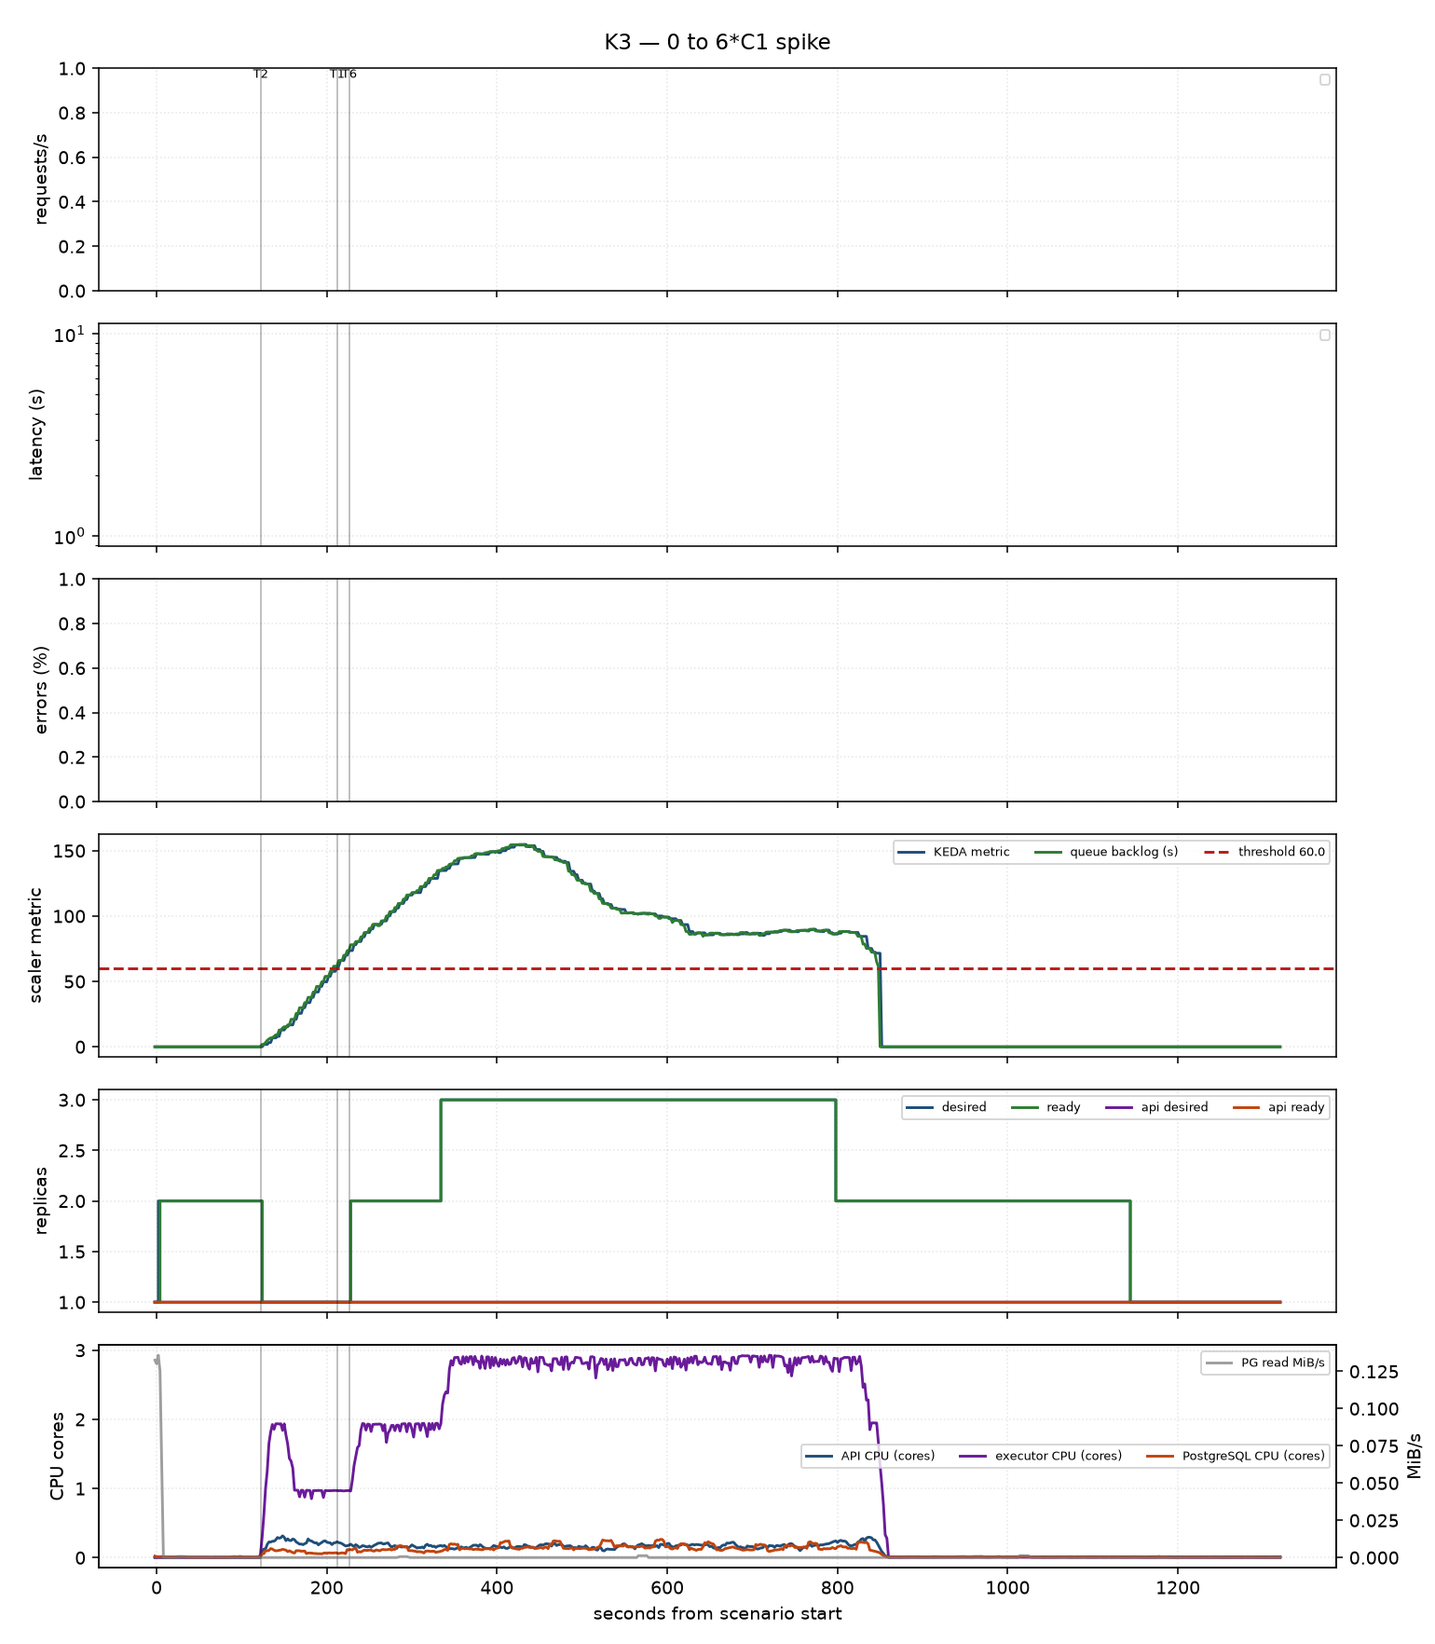
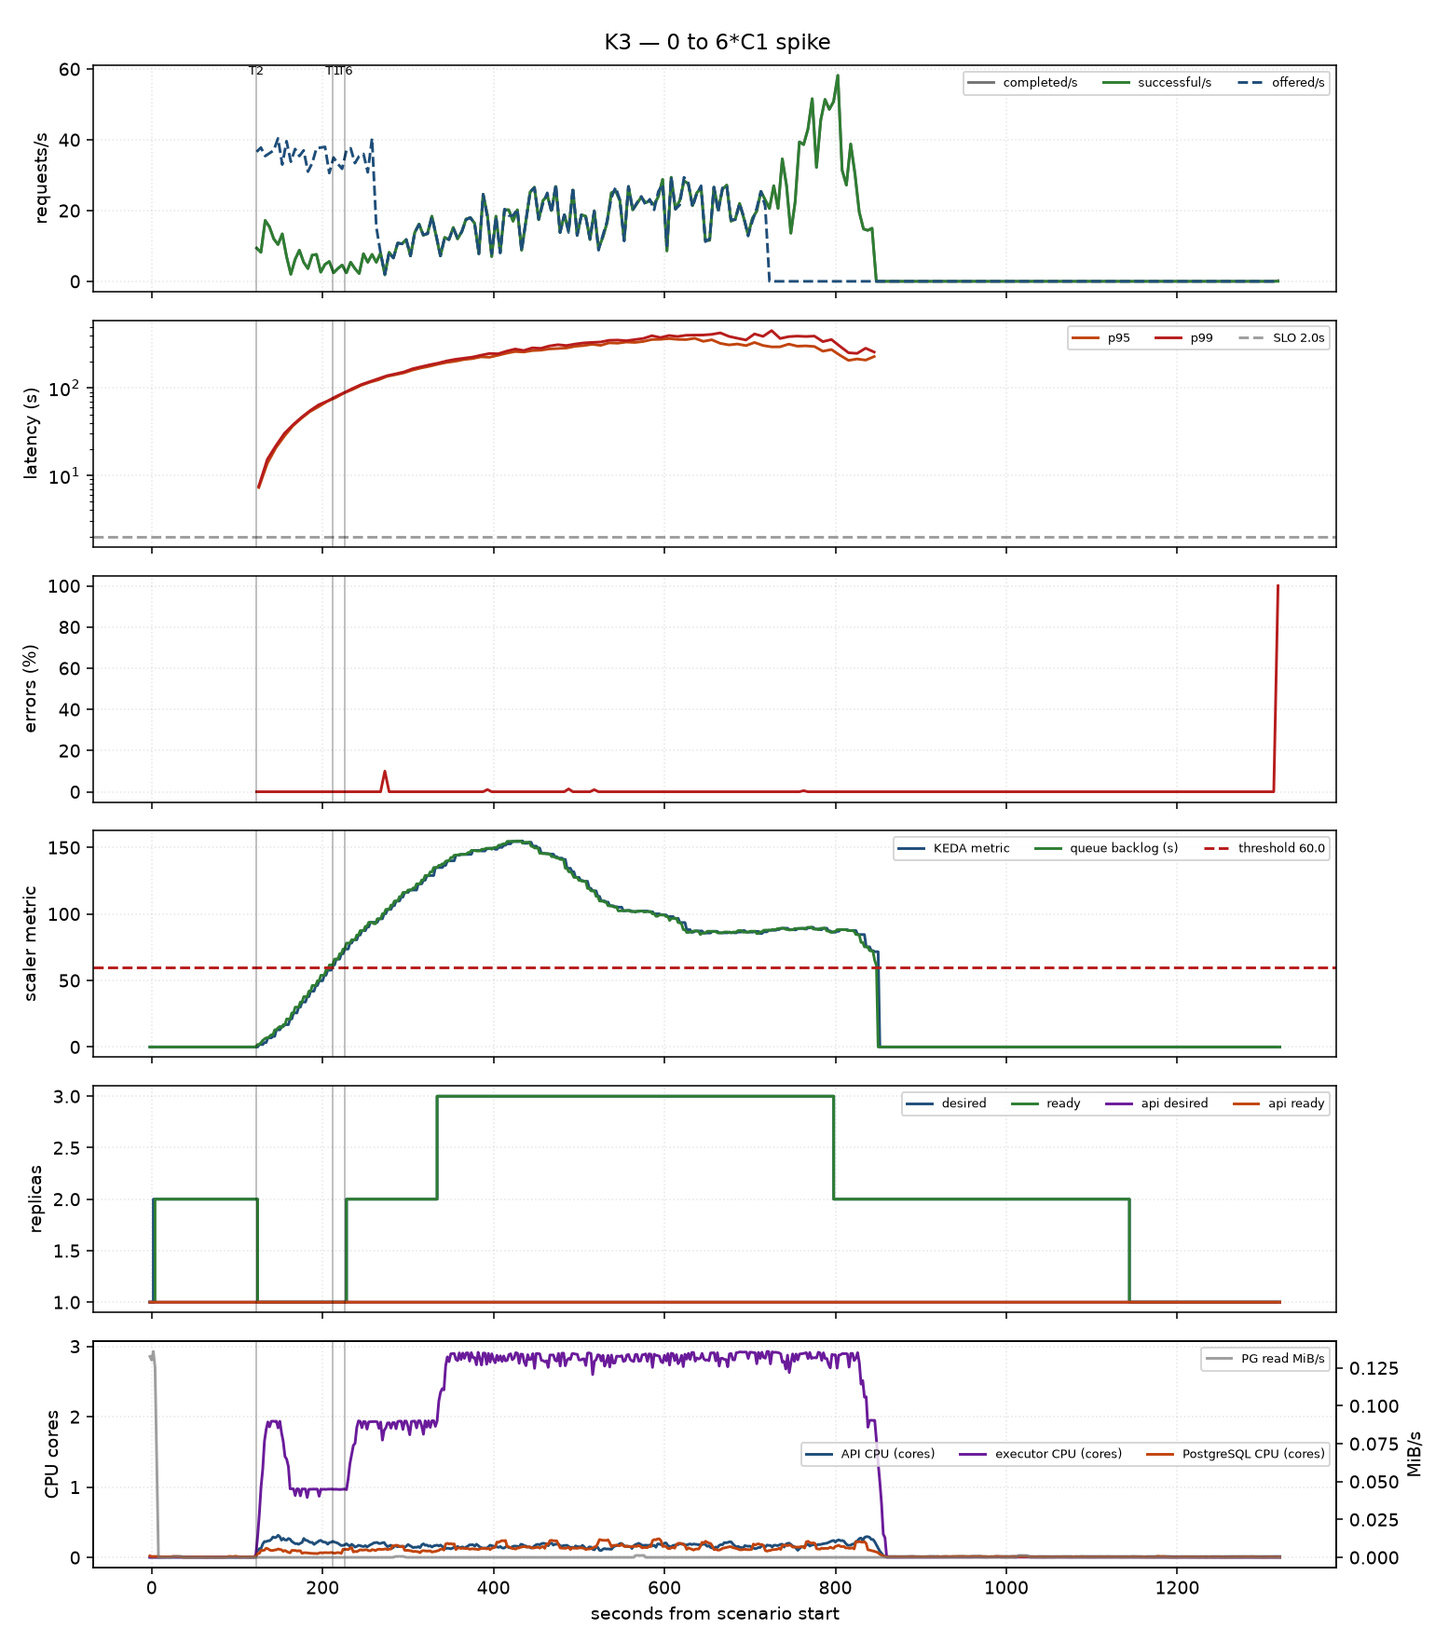
fix: draw the request panels, and classify the resource that was pinned
Two defects, found by finally looking at an autoscaling dashboard once the path
that blanked half of it was fixed.

The series path was corrected to `metrics/keda-K3.parquet` in an earlier commit;
the samples path three lines below still said `samples/K3.parquet`. So
offered-against-served, latency and error rate drew nothing on all seven
dashboards of every KEDA run — axed, titled, captioned and empty. An empty panel
under a heading reads as "measured, and flat", so a panel with no data now says
so on its face instead of leaving matplotlib's "no artists with labels" warning
as the only report of it.

With the panels drawn, executor CPU was visibly at 2.9 cores across three pods:
0.95 to 0.97 of a core each, against a two-core cgroup, with zero CFS
throttling. That is the chart's own GIL argument, which its values file states
outright — "one executor runs one query at a time" — and no rule was looking at
it. The classifier checked API CPU against the API's ceiling and PostgreSQL
against PostgreSQL's, and never the executor. So the one resource genuinely at
its limit in this family was invisible; the sustained-overload scenario came out
UNKNOWN; and I had described these runs as having nothing busy. The API and the
database were idle. The executors were full.

EXECUTOR_CPU_BOUND is now a class, its ceiling one core a pod times the pods
ready. It fires on four of the seven scenarios, and where it appears beside
[…]

diff --git a/benchmarks/tap-performance/tapbench/analyze/bottleneck.py b/benchmarks/tap-performance/tapbench/analyze/bottleneck.py
@@ -22,6 +22,7 @@ import numpy as np
 
 CLASSES = (
     "TAP_CPU_BOUND",
+    "EXECUTOR_CPU_BOUND",
     "DATABASE_CPU_BOUND",
     "DATABASE_IO_BOUND",
     "CONNECTION_POOL_BOUND",
@@ -49,14 +50,14 @@ def _fraction_above(values: np.ndarray, threshold: float) -> float:
     return float((values > threshold).mean()) if values.size else 0.0
 
 
-def fleet_replicas(metrics_rows: list[dict]) -> float:
-    """Peak API replicas ready during the window, never below one.
+def fleet_replicas(metrics_rows: list[dict], metric: str = "api_replicas_ready") -> float:
+    """Peak replicas ready during the window, never below one.
 
     The multiplier for every per-pod ceiling, taken from the run rather than
     from the configuration: under an autoscaler the configured count is not
     what served, and the measured one is right in both cases.
     """
-    ready = _series(metrics_rows, "api_replicas_ready")
+    ready = _series(metrics_rows, metric)
     finite = ready[np.isfinite(ready)] if ready.size else ready
     return max(float(finite.max()), 1.0) if finite.size else 1.0
 
@@ -76,6 +77,8 @@ def classify(
     api_cpu = _series(metrics_rows, "tap_api_cpu_cores")
     pg_cpu = _series(metrics_rows, "postgres_cpu_cores")
     api_throttle = _series(metrics_rows, "tap_api_throttled_seconds")
+    exec_cpu = _series(metrics_rows, "tap_executor_cpu_cores")
+    exec_throttle = _series(metrics_rows, "tap_executor_throttled_seconds")
     pg_throttle = _series(metrics_rows, "postgres_throttled_seconds")
     pool_in_use = _series(metrics_rows, "tap_db_connections_in_use")
     pool_wait = _series(metrics_rows, "tap_pool_wait_p95")
@@ -95,6 +98,8 @@ def classify(
     # judged against the fleet that actually served.
     serving = fleet_replicas(metrics_rows)
     api_limit = limits.get("tap_api_cpu_limit_cores", 2.0) * serving
+    executors = fleet_replicas(metrics_rows, "executor_replicas_ready")
+    exec_limit = limits.get("tap_executor_cpu_limit_cores", 1.0) * executors
     pg_limit = limits.get("postgres_cpu_limit_cores", 4.0)
     pool_limit = limits.get("db_pool_max_total", 8) * limits.get("tap_api_workers", 1) * serving
 
@@ -134,6 +139,36 @@ def classify(
                     "GIL, so one worker cannot exceed one core whatever the cgroup "
                     "allows. Relieved by more processes (tapApi.workers) or more "
                     "pods, never by a bigger limit on one worker.",
+                )
+            )
+
+    # -- executor CPU -------------------------------------------------------
+    # Missing until the autoscaling family was read, and it was the resource
+    # actually at its ceiling there: each executor pod sat at 0.96 of a core
+    # with a two-core cgroup and no throttling, while the run was described as
+    # having nothing busy. The API and the database were idle; the executors
+    # were pinned.
+    if exec_cpu.size:
+        hot = _fraction_above(exec_cpu, 0.90 * exec_limit)
+        throttled = float(exec_throttle.mean()) if exec_throttle.size else 0.0
+        if hot > 0.25 or throttled > 0.05:
+            verdicts.append(
+                Verdict(
+                    "EXECUTOR_CPU_BOUND",
+                    max(hot, min(1.0, throttled)),
+                    {
+                        "fraction_of_window_above_90pct_limit": hot,
+                        "mean_throttled_seconds_per_second": throttled,
+                        "peak_cores": float(exec_cpu.max()),
+                        "limit_cores": exec_limit,
+                        "executor_replicas_serving": executors,
+                    },
+                    "The executors are at their ceiling. One executor runs one query "
+                    "at a time, so a pod cannot exceed one core whatever its cgroup "
+                    "allows, and the only relief is more pods. Alongside "
+                    "KEDA_SCALE_LAG this is the whole story of an autoscaling "
+                    "shortfall: the pods that existed were full and more were never "
+                    "asked for.",
                 )
             )
 

diff --git a/benchmarks/tap-performance/tapbench/analyze/report.py b/benchmarks/tap-performance/tapbench/analyze/report.py
@@ -675,7 +675,11 @@ class Plotter:
         for series in metrics.values():
             series.sort()
 
-        samples_file = self.run_dir / "samples" / f"{scenario['id']}.parquet"
+        # Keyed the same way as the series, and for the same reason: named by
+        # the scenario id, this found nothing, and the three panels that draw
+        # request data — offered against served, latency, error rate — came out
+        # blank on every dashboard in the family while still being captioned.
+        samples_file = self.run_dir / "samples" / f"{key}.parquet"
         samples = None
         if samples_file.exists():
             samples = pq.read_table(samples_file).to_pydict()
@@ -686,6 +690,31 @@ class Plotter:
 
         def rel(series):
             return [t - t0 for t, _ in series], [v for _, v in series]
+
+        def legend_or_say_why(ax, missing: str) -> None:
+            """Label a panel that has data; label the absence when it has none.
+
+            An empty axis under a heading reads as "measured, and flat", and a
+            path mistake has produced exactly that twice in this file. The
+            missing data is drawn on the panel instead — and matplotlib's
+            "no artists with labels" warning stops being the only place it was
+            reported.
+            """
+            if ax.get_legend_handles_labels()[0]:
+                ax.legend(fontsize="x-small", ncols=3)
+            else:
+                ax.text(
+                    0.5,
+                    0.5,
+                    missing,
+                    transform=ax.transAxes,
+                    ha="center",
+                    va="center",
+                    fontsize="small",
+                    color=PALETTE["warn"],
+                )
+
+        no_samples = f"no request samples at samples/{key}.parquet"
 
         panels = 6
         fig, axes = plt.subplots(panels, 1, figsize=(11, 2.1 * panels), sharex=True)
@@ -713,7 +742,7 @@ class Plotter:
                     color=PALETTE["primary"],
                 )
         ax.set_ylabel("requests/s")
-        ax.legend(fontsize="x-small", ncols=3)
+        legend_or_say_why(ax, no_samples)
         ax.grid(alpha=0.3, linestyle=":")
 
         # 2: latency
@@ -747,7 +776,7 @@ class Plotter:
                 )
         ax.set_ylabel("latency (s)")
         ax.set_yscale("log")
-        ax.legend(fontsize="x-small", ncols=3)
+        legend_or_say_why(ax, no_samples)
         ax.grid(alpha=0.3, linestyle=":")
 
         # 3: error rate
@@ -761,6 +790,8 @@ class Plotter:
             with np.errstate(divide="ignore", invalid="ignore"):
                 fraction = np.where(total > 0, 100 * failed / total, 0.0)
             ax.plot((edges[:-1] + edges[1:]) / 2 - t0, fraction, color=PALETTE["warn"])
+        else:
+            legend_or_say_why(ax, no_samples)
         ax.set_ylabel("errors (%)")
         ax.grid(alpha=0.3, linestyle=":")
 

diff --git a/benchmarks/tap-performance/tests/test_fleet_and_capacity.py b/benchmarks/tap-performance/tests/test_fleet_and_capacity.py
@@ -327,3 +327,40 @@ def test_a_scale_out_delay_is_named_rather_than_left_unknown():
     assert bottleneck.primary(lagging) == "KEDA_SCALE_LAG"
     evidence = next(v for v in lagging if v.classification == "KEDA_SCALE_LAG").evidence
     assert evidence["total_scale_out_s"] == 352.0
+
+
+def test_a_pinned_executor_is_reported_rather_than_read_as_headroom():
+    """The gap this closes: each executor pod sat at 0.96 of a core against a
+    two-core cgroup with no throttling, and no rule looked at it — so an
+    autoscaling run whose executors were saturated was described as having
+    nothing busy."""
+    rows = _rows(
+        ("tap_executor_cpu_cores", [2.89] * 50),
+        ("executor_replicas_ready", [3.0] * 50),
+    )
+    classes = {v.classification for v in _classify(rows)}
+    assert "EXECUTOR_CPU_BOUND" in classes
+
+    # Three pods at a third of a core each is not the same measurement.
+    idle = _rows(
+        ("tap_executor_cpu_cores", [1.0] * 50),
+        ("executor_replicas_ready", [3.0] * 50),
+    )
+    assert "EXECUTOR_CPU_BOUND" not in {v.classification for v in _classify(idle)}
+
+
+def test_the_executor_ceiling_is_one_core_a_pod_not_its_cgroup():
+    """One executor runs one query at a time, so the cgroup's two cores are not
+    the ceiling — comparing against them reports a pinned pod as half idle."""
+    from tapbench.orchestrate import runner as runner_mod
+
+    resolved = runner_mod.limits(
+        {
+            "chart_values": {
+                "tapExecutor": {"resources": {"limits": {"cpu": 2}}},
+                "tapApi": {"workers": 1, "resources": {"limits": {"cpu": 2}}},
+            }
+        }
+    )
+    assert resolved["tap_executor_cpu_limit_cores"] == 1.0
+    assert resolved["tap_executor_pod_cpu_limit_cores"] == 2.0

diff --git a/benchmarks/tap-performance/tapbench/orchestrate/runner.py b/benchmarks/tap-performance/tapbench/orchestrate/runner.py
@@ -44,6 +44,7 @@ PROMETHEUS_URL = "http://127.0.0.1:30090"
 # Read from the values file so the two cannot disagree.
 LIMITS_FROM_VALUES = {
     "tap_api_cpu_limit_cores": ("tapApi", "resources", "limits", "cpu"),
+    "tap_executor_cpu_limit_cores": ("tapExecutor", "resources", "limits", "cpu"),
     "postgres_cpu_limit_cores": ("postgresql", "resources", "limits", "cpu"),
 }
 
@@ -76,6 +77,7 @@ def limits(cfg: dict) -> dict:
         return node
 
     api_cpu = _quantity(dig(LIMITS_FROM_VALUES["tap_api_cpu_limit_cores"]), 2.0)
+    exec_cpu = _quantity(dig(LIMITS_FROM_VALUES["tap_executor_cpu_limit_cores"]), 2.0)
     pg_cpu = _quantity(dig(LIMITS_FROM_VALUES["postgres_cpu_limit_cores"]), 4.0)
     pool = int((values.get("config") or {}).get("dbPoolMax") or 8)
     workers = int((values.get("tapApi") or {}).get("workers") or 1)
@@ -88,6 +90,12 @@ def limits(cfg: dict) -> dict:
         "tap_api_cpu_limit_cores": min(api_cpu, float(workers)),
         "tap_api_pod_cpu_limit_cores": api_cpu,
         "tap_api_workers": workers,
+        # The chart says it plainly: "one executor runs one query at a time".
+        # So a pod's ceiling is one core however many the cgroup allows — the
+        # same GIL argument as the API's, and the reason the executors read as
+        # pinned at 0.96 while their two-core limit looked like headroom.
+        "tap_executor_cpu_limit_cores": min(exec_cpu, 1.0),
+        "tap_executor_pod_cpu_limit_cores": exec_cpu,
         "postgres_cpu_limit_cores": pg_cpu,
         "db_pool_max_total": pool,
         "tap_api_memory_limit_bytes": 1 << 30,

diff --git a/docs/roadmap.md b/docs/roadmap.md
@@ -50,6 +50,37 @@ A running log of what the benchmark suite
 established, newest first. Each entry is a measurement rather than an opinion,
 so it can be checked and it can go stale — the run that produced it is named.
 
+### 2026-08-24 — a pinned executor had no rule looking at it (fixed)
+
+Two defects found by finally *looking* at an autoscaling dashboard, after fixing
+the path that had left half of every one of them blank.
+
+**The three request panels of every dashboard were empty.** The series path was
+corrected earlier to `metrics/keda-K3.parquet`; the samples path three lines
+below it still said `samples/K3.parquet`. So offered-against-served, latency and
+error rate drew nothing on all seven dashboards in every KEDA run — captioned,
+axed, titled and empty. An empty panel under a heading reads as "measured, and
+flat". A panel with no data now says so on its face, rather than leaving
+matplotlib's "no artists with labels" warning as the only report of it.
+
+**And the resource that was actually at its ceiling had no rule.** The dashboard
+showed executor CPU at 2.9 cores across 3 pods. Per pod that is **0.95 to 0.97
+of a core against a two-core cgroup, with zero CFS throttling** — the chart's
+own GIL argument, stated in its values file: "one executor runs one query at a
+time". The classifier compared API CPU against the API's ceiling and PostgreSQL
+against PostgreSQL's, and never looked at the executor at all. So this family's
+real resource ceiling was invisible, `UNKNOWN` was the verdict on the sustained
+overload, and I described these runs as having "nothing busy".
+
+`EXECUTOR_CPU_BOUND` is now a class, with the ceiling at one core a pod times
+the pods that were ready. It fires on four of the seven scenarios, and where it
+appears alongside `KEDA_SCALE_LAG` the pair is the entire story of an autoscaling
+shortfall: **the pods that existed were full, and more were never asked for.**
+`UNKNOWN` has gone from the family's tally.
+
+Both defects are the species this day kept turning up: a thing that was written,
+looked present, and silently reported nothing. That is now six of them.
+
 ### 2026-08-24 — the autoscaler's answer to every load is three pods, and the delay is never the pod
 
 Run `20260824T102832Z-29507cbb-keda`: all seven scenarios again, with the
@@ -148,7 +179,8 @@ the queue rather than the routing.
 
 API CPU peaked at 0.69 cores and PostgreSQL at 0.32 while all of this happened,
 so raising the cap did not turn the generator's own phase polling into a load on
-the service — the other thing this probe was for.
+the service — the other thing this probe was for. The *executors*, which no rule
+was looking at yet, were pinned at 0.96 of a core each throughout.
 
 ### 2026-08-24 — the executor autoscaler asks for three pods against a three-thousand-job queue
 
@@ -173,8 +205,17 @@ against the repository's own ScaledObject, unmodified: trigger
 K1 is the one scenario that behaved: the metric never crossed 60, nothing
 scaled, and p95 stayed at 1.3 s inside the 2 s SLO. Every other scenario missed
 the SLO for its entire window while **five of the eight executors it was
-allowed were never asked for**. Nothing was busy while this happened: API CPU
-p95 was 0.25 to 0.35 cores, PostgreSQL 0.08 to 0.22.
+allowed were never asked for**. The API and the database were idle throughout —
+API CPU p95 0.25 to 0.35 cores, PostgreSQL 0.08 to 0.22.
+
+**Corrected on 2026-08-24.** This entry originally said "nothing was busy",
+which was wrong and made the finding weaker than it is. Nothing *instrumented
+by a rule* was busy: no rule looked at the executors, and the executors were
+pinned. Each pod sat at 0.95 to 0.97 of a core with a two-core cgroup and no
+CFS throttling — the chart's own GIL ceiling, since "one executor runs one query
+at a time". So the three pods the autoscaler did provide were **full**, the
+queue was growing, five more pods were permitted, and none was requested. See
+[a pinned executor had no rule looking at it](#2026-08-24-a-pinned-executor-had-no-rule-looking-at-it-fixed).
 
 The cause is the signal, not the autoscaler. `desired = ceil(oldest_queued_age /
 60)`, and the age of the *head* of the queue is not proportional to the depth

diff --git a/docs/performance/20260824T102832Z-29507cbb-keda/index.md b/docs/performance/20260824T102832Z-29507cbb-keda/index.md
@@ -63,8 +63,8 @@ timings describe conditions other than the ones intended.
 | --- | --- | --- |
 | `DATABASE_IO_BOUND` | 6 | The working set does not fit in shared_buffers plus page cache: the database is fetching from disk. This is the class that appears as the dataset grows and is the reason the size sweep exists. |
 | `KEDA_SCALE_LAG` | 5 | Capacity existed but arrived late: the errors and latency in this window are the cost of the scaling delay rather than of a resource ceiling. The stage breakdown says which part to attack. |
+| `EXECUTOR_CPU_BOUND` | 4 | The executors are at their ceiling. One executor runs one query at a time, so a pod cannot exceed one core whatever its cgroup allows, and the only relief is more pods. Alongside KEDA_SCALE_LAG this is the whole story of an autoscaling shortfall: the pods that existed were full and more were never asked for. |
 | `TAP_CPU_BOUND` | 1 | The API's own CPU is the constraint: it sat at its ceiling, or was CFS-throttled, for a material part of the window. The ceiling compared against is min(pod CPU limit, workers), not the pod limit: ADQL translation is pure-Python and holds the GIL, so one worker cannot exceed one core whatever the cgroup allows. Relieved by more processes (tapApi.workers) or more pods, never by a bigger limit on one worker. |
-| `UNKNOWN` | 1 | 17% of requests failed, so no resource was saturated by these rules — nothing was doing enough work to saturate anything. Explain the failures before reading any throughput or latency figure from this run. |
 
 ## Graphs
 

diff --git a/docs/performance/20260824T074332Z-b4fa9d64-keda/index.md b/docs/performance/20260824T074332Z-b4fa9d64-keda/index.md
@@ -62,6 +62,7 @@ timings describe conditions other than the ones intended.
 | classification | measurements | meaning |
 | --- | --- | --- |
 | `DATABASE_IO_BOUND` | 10 | The working set does not fit in shared_buffers plus page cache: the database is fetching from disk. This is the class that appears as the dataset grows and is the reason the size sweep exists. |
+| `EXECUTOR_CPU_BOUND` | 4 | The executors are at their ceiling. One executor runs one query at a time, so a pod cannot exceed one core whatever its cgroup allows, and the only relief is more pods. Alongside KEDA_SCALE_LAG this is the whole story of an autoscaling shortfall: the pods that existed were full and more were never asked for. |
 | `KEDA_SCALE_LAG` | 4 | Capacity existed but arrived late: the errors and latency in this window are the cost of the scaling delay rather than of a resource ceiling. The stage breakdown says which part to attack. |
 | `MEMORY_BOUND` | 4 | A container approached or exceeded its memory limit. An OOM kill invalidates the run outright; sustained pressure below it still distorts latency through reclaim. |
 | `TAP_CPU_BOUND` | 1 | The API's own CPU is the constraint: it sat at its ceiling, or was CFS-throttled, for a material part of the window. The ceiling compared against is min(pod CPU limit, workers), not the pod limit: ADQL translation is pure-Python and holds the GIL, so one worker cannot exceed one core whatever the cgroup allows. Relieved by more processes (tapApi.workers) or more pods, never by a bigger limit on one worker. |
